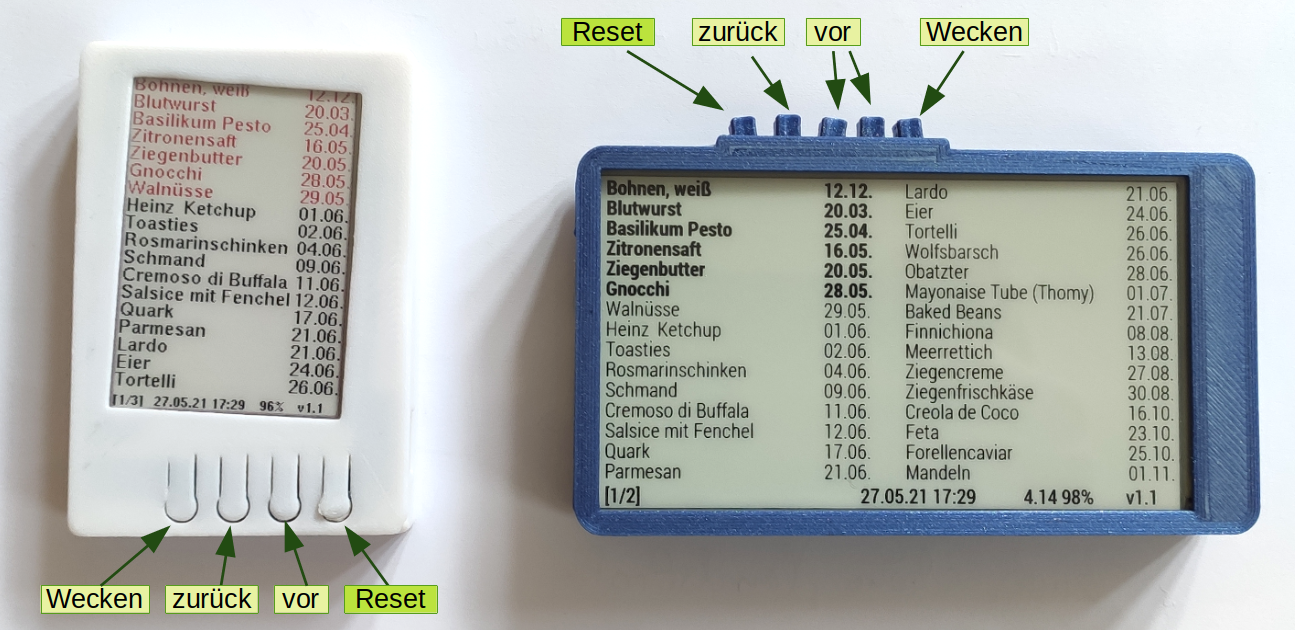
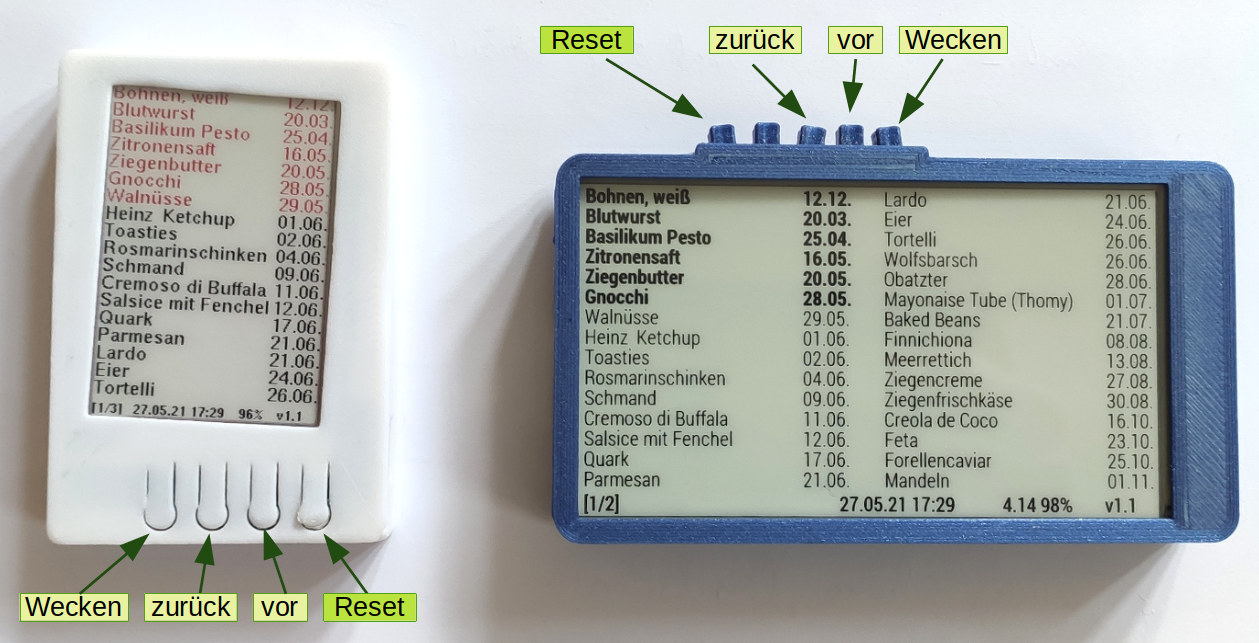
fixes for battery measrurement

Changed region(s): [[0.4027, 0.0302, 0.9913, 0.9349], [0.0, 0.0905, 0.3407, 1.0], [0.3717, 0.5127, 0.4027, 0.573]]

diff --git a/src/main.cpp b/src/main.cpp
@@ -28,7 +28,6 @@ TaskHandle_t TickTask;
 int language = _GER_;
 Button2 button1 = Button2(BUTTON_LAST);
 Button2 button2 = Button2(BUTTON_NEXT);
-Button2 button3 = Button2(BUTTON_OPT);
 Batty myBatt;
 
 int the_page = 0;
@@ -230,10 +229,8 @@ bool setup_button_click()
   TRACE1();
   button1.setClickHandler(click);
   button2.setClickHandler(click);
-  button3.setClickHandler(click);
   button1.setLongClickHandler(click);
   button2.setLongClickHandler(click);
-  button3.setLongClickHandler(click);
   return(true);
 }
 
@@ -245,7 +242,6 @@ void setup() {
   pinMode(BUTTON_WAKE, INPUT_PULLUP);
   pinMode(BUTTON_LAST, INPUT_PULLUP);
   pinMode(BUTTON_NEXT, INPUT_PULLUP);
-  pinMode(BUTTON_OPT, INPUT_PULLUP);
   ota_update = hch_init((char*)CLIENT_ID, 115200);
   delay(100);
   language = hch_get_lang();
@@ -259,15 +255,15 @@ void setup() {
   Serial.printf("CLIENT_ID %s\n", CLIENT_ID);
   watch_tick.attach((float)(TICK_TASK_DELAY / 1000), watch_task);
 
-  Serial.printf("Button state [%d|%d|%d|%d]\n", 
+  Serial.printf("Button state [%d|%d|%d]\n", 
     digitalRead(BUTTON_WAKE), digitalRead(BUTTON_LAST),
-    digitalRead(BUTTON_NEXT), digitalRead(BUTTON_OPT));
-  if(digitalRead(BUTTON_LAST) == LOW)
+    digitalRead(BUTTON_NEXT));
+  if(digitalRead(BUTTON_NEXT) == LOW)
   {
     ota_update = true;
     Serial.println(F("FIRMWARE UPDATE requested!"));
   }
-  if( (digitalRead(BUTTON_NEXT) == LOW) || (digitalRead(BUTTON_OPT) == LOW) )
+  if( digitalRead(BUTTON_LAST) == LOW )
   {
     Serial.println(F("SHOW CONFIG requested!"));
     show_config = true;
@@ -307,15 +303,16 @@ void setup() {
   bool new_online_fw = checkVersion();
   if(ota_update == true)
   {
-    myEpaper.show_ota_update(theVersion.new_major, theVersion.new_minor);
     hch_clear_ota_request();
     if(checkForUpdates() == true)
     {
-      Serial.println(F("New Update avaialable\n"));
+      myEpaper.show_ota_update(theVersion.new_major, theVersion.new_minor);
+      Serial.println(F("New Update available\n"));
       return;    
     }
     else
     {
+      myEpaper.show_firmware();
       Serial.println(F("Firmware up to date .... continue!\n"));
     }
   }

diff --git a/src/ePaperBWR.cpp b/src/ePaperBWR.cpp
@@ -306,9 +306,17 @@ void ePaperBWR::show_config()
 
   sprintf(the_string, "WiFi RSSI %d", WiFi.RSSI());
   EPD_print_text(12, the_string, X_START, Y_START+3*Y_OFFSET, false);
-
-  sprintf(the_string, "Batt %.2fV SOC %d%%", ((float)batt_voltage)/1000.0f, batt_level);
-  EPD_print_text(12, the_string, X_START, Y_START+4*Y_OFFSET, false);
+  
+  if(batt_voltage > 2.0f)
+  {
+    sprintf(the_string, "Batterie  %.2fV  (%d%%)", batt_voltage, batt_level);
+    EPD_print_text(12, the_string, X_START, Y_START+4*Y_OFFSET, false);
+  }
+  else
+  {
+    sprintf(the_string, "No Battery");
+    EPD_print_text(12, the_string, X_START, Y_START+4*Y_OFFSET, false);
+  }
   EPD_draw_logo();
   EPD_leave();
   free(the_string);
@@ -341,10 +349,32 @@ void ePaperBWR::show_ota_update(int new_major, int new_minor)
   EPD_print_text(12, the_string, X_START, Y_START+2*Y_OFFSET, false);
 
   if(language == _GER_)
-    sprintf(the_string, "Dies dauert einige Minuten ..");
+    sprintf(the_string, "Dies kann einige Minuten dauern ..");
   else
     sprintf(the_string, "This can take some minutes ..");
   EPD_print_text(12, the_string, X_START, Y_START+3*Y_OFFSET, false);
+  EPD_draw_logo();
+  EPD_leave();
+  free(the_string);
+}
+
+void ePaperBWR::show_firmware()
+{
+  TRACE1();
+
+  EPD_enter();
+  EPD_orient(LANDSCAPE_MODE);
+
+  char *the_string = (char*)malloc(MED_STRING_LEN);
+  if(language == _GER_)
+    sprintf(the_string, "Firmware ist aktuell");  
+  else
+    sprintf(the_string, "Firmware is up to date");
+  EPD_print_text(12, the_string, X_START, Y_START, false);
+ 
+  sprintf(the_string, "Version %d.%d", FW_VERSION_MAJ, FW_VERSION_MIN);
+  EPD_print_text(12, the_string, X_START, Y_START+Y_OFFSET, false);
+
   EPD_draw_logo();
   EPD_leave();
   free(the_string);

diff --git a/src/batty.cpp b/src/batty.cpp
@@ -13,6 +13,7 @@ Batty::Batty() {
   batt_level = 0;
 }
 
+// copied from https://github.com/rlogiacco/BatterySense
 void Batty::init() {
   TRACE1();
   vref = 1100;
@@ -28,7 +29,11 @@ uint8_t Batty::level()
 {
   uint16_t maxVoltage = MAX_VOLTAGE;
   uint16_t minVoltage = MIN_VOLTAGE;
-  return(105 - (105 / (1 + pow(1.724 * (uint16_t(batt_voltage*1000.0f) - minVoltage)/(maxVoltage - minVoltage), 5.5))));
+  // copied from https://github.com/rlogiacco/BatterySense
+  batt_level = 105 - (105 / (1 + pow(1.724 * (uint16_t(batt_voltage*1000.0f) - minVoltage)/(maxVoltage - minVoltage), 5.5)));
+  if(batt_level > 100)
+    batt_level = 100;
+  return(batt_level);
 }
 
 void Batty::read()

diff --git a/include/Config.h b/include/Config.h
@@ -11,9 +11,8 @@
 
 #ifdef LILYGO_47
 // LILYGO 4.7"
-#define BUTTON_LAST    34
-#define BUTTON_NEXT    35
-#define BUTTON_OPT     0
+#define BUTTON_LAST    35
+#define BUTTON_NEXT    34
 #define BUTTON_WAKE    39
 #define BAT_SENSE_PIN  36
 #define BAT_GAIN 2.0
@@ -21,9 +20,8 @@
 // LILYGO 2.x"
 #define BUTTON_LAST    37
 #define BUTTON_NEXT    39
-#define BUTTON_OPT     39  // not available
 #define BUTTON_WAKE    38
-#define BAT_GAIN 1.86      // should be 2.0 ih theory but the 
+#define BAT_GAIN 1.86      // should be 2.0 in theory but the AD converter seems to make an error
 #define BAT_SENSE_PIN A17
 #endif
 

diff --git a/include/ePaperBWR.h b/include/ePaperBWR.h
@@ -14,6 +14,7 @@ public:
   void ap_mode(const char*);
   void show_ota_update(int, int);
   void show_config();
+  void show_firmware();
   void default_mode();
   uint8_t orientation;
 private:
